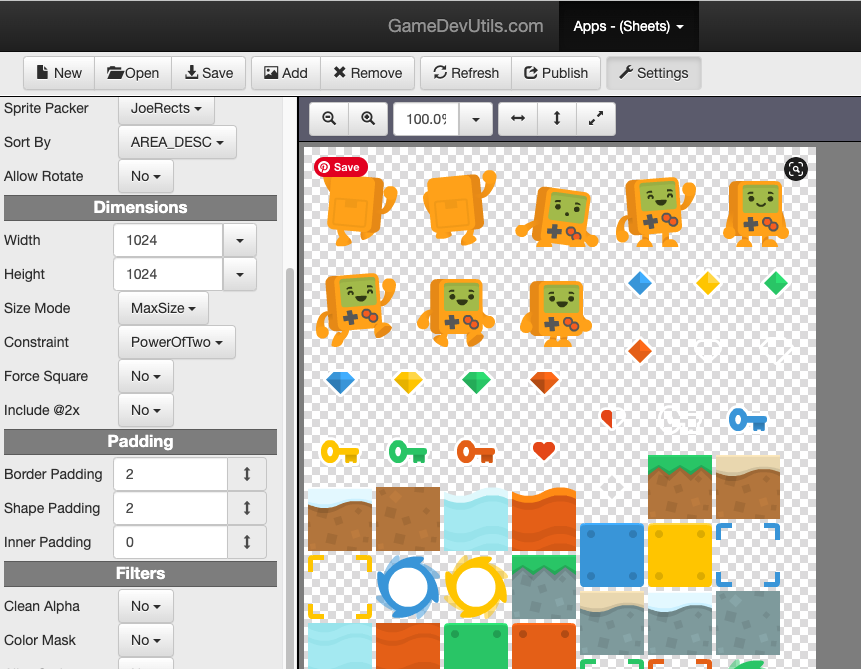
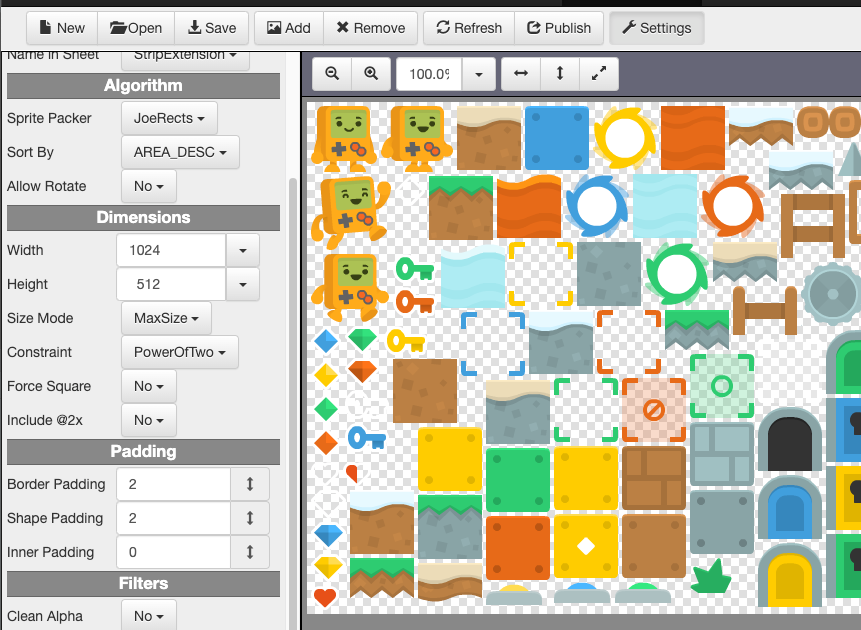
WIP - recrop image for readme, test tweaks for cli readme

diff --git a/cli/README.md b/cli/README.md
@@ -6,7 +6,7 @@ Sheets is one of the apps in the http://gamedevutils.com/ suite of tools. It tak
 
 ## The CLI App
 
-The cli folder contains the logic for the command-line app.
+The `cli` folder contains the logic for the command-line app.
 
 ### Build
 
